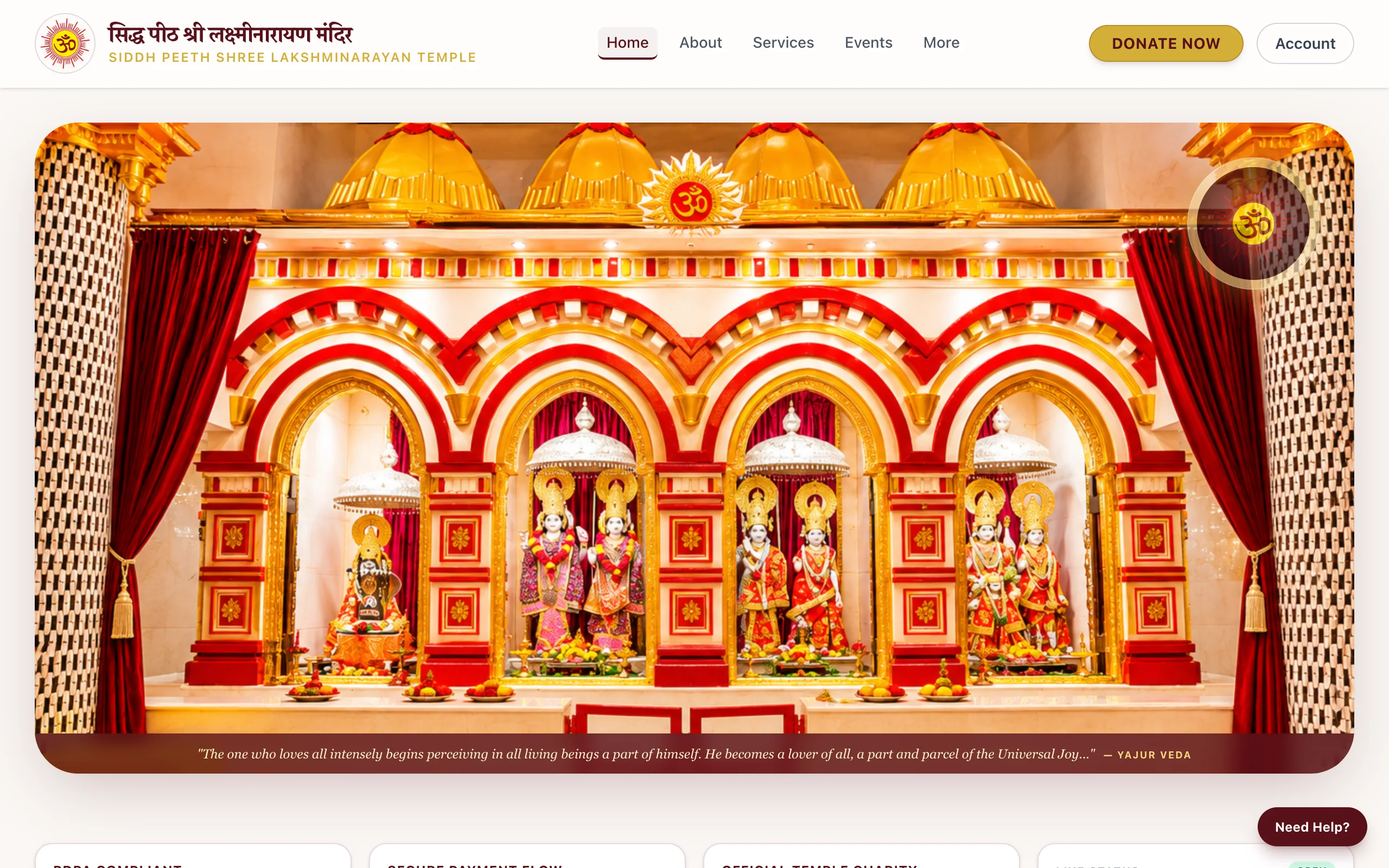
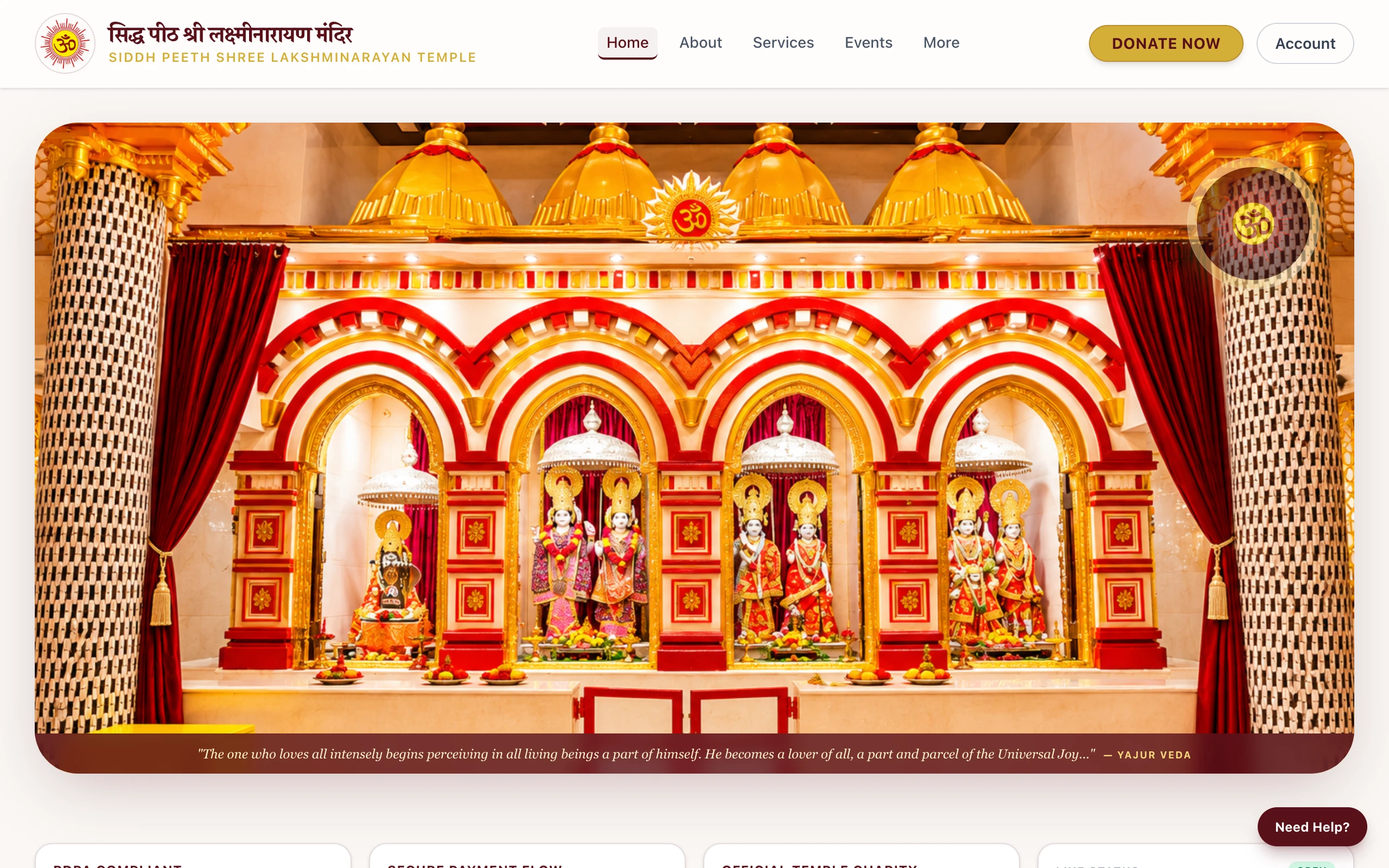
feat: implement desktop + mobile dual frame layout in hero showcase and upgrade full-bleed screenshots

diff --git a/index.html b/index.html
@@ -237,14 +237,38 @@
                 </span>
               </div>
 
-              <!-- Screenshot Preview Frame -->
-              <div class="product-preview-frame overflow-hidden rounded-xl border border-zinc-800 bg-zinc-950/80 relative">
-                <div class="flex items-center justify-between px-3 py-1 bg-zinc-900/90 border-b border-zinc-800/80 font-mono text-[10px] text-slate-400">
-                  <span class="text-slate-300 truncate">spslnt.sg</span>
-                  <span class="text-emerald-400 font-semibold">100% Festival Uptime</span>
+              <!-- Desktop + Mobile Dual Frame Container -->
+              <div class="grid grid-cols-12 gap-3 items-stretch my-2">
+                <!-- Desktop Frame -->
+                <div class="col-span-7 sm:col-span-8 flex flex-col rounded-xl border border-zinc-800 bg-zinc-950/90 overflow-hidden shadow-md">
+                  <!-- Chrome Top Bar -->
+                  <div class="flex items-center justify-between px-2.5 py-1.5 bg-zinc-900/90 border-b border-zinc-800/80 font-mono text-[10px] text-slate-400">
+                    <div class="flex items-center gap-1.5 min-w-0">
+                      <span class="w-2 h-2 rounded-full bg-rose-500 inline-block flex-shrink-0"></span>
+                      <span class="w-2 h-2 rounded-full bg-amber-500 inline-block flex-shrink-0"></span>
+                      <span class="w-2 h-2 rounded-full bg-emerald-500 inline-block flex-shrink-0"></span>
+                      <span class="ml-1 text-slate-300 truncate font-mono text-[10px]">spslnt.sg</span>
+                    </div>
+                    <span class="text-[9px] sm:text-[10px] px-1.5 py-0.5 rounded bg-zinc-800/80 text-zinc-300 border border-zinc-700/50 font-sans flex-shrink-0">Web Platform</span>
+                  </div>
+                  <!-- Desktop Screen -->
+                  <div class="relative flex-1 overflow-hidden aspect-[16/10] bg-zinc-950">
+                    <img src="assets/images/screenshots/spslnt.webp" alt="Shri Laxmi Narayan Temple Singapore live platform screenshot" loading="lazy" class="w-full h-full object-cover object-top">
+                  </div>
                 </div>
-                <div class="relative overflow-hidden aspect-[16/9] max-h-36 bg-zinc-950">
-                  <img src="assets/images/screenshots/spslnt.webp" alt="Shri Laxmi Narayan Temple Singapore live platform screenshot" loading="lazy" class="w-full h-full object-cover object-top">
+
+                <!-- Mobile Frame -->
+                <div class="col-span-5 sm:col-span-4 rounded-2xl border-2 border-zinc-700/80 bg-zinc-950 p-1 shadow-lg shadow-black/50 relative flex flex-col overflow-hidden justify-between">
+                  <!-- Dynamic Island Notch -->
+                  <div class="w-12 h-1.5 bg-zinc-800 rounded-full mx-auto my-1 flex-shrink-0"></div>
+                  <!-- Mobile Screen -->
+                  <div class="relative overflow-hidden rounded-xl aspect-[9/16] max-h-44 sm:max-h-48 bg-zinc-900 flex-1">
+                    <img src="assets/images/screenshots/spslnt-mobile.webp" alt="Shri Laxmi Narayan Temple Singapore mobile view screenshot" loading="lazy" class="w-full h-full object-cover object-top">
+                  </div>
+                  <!-- Mobile Label -->
+                  <div class="pt-1 pb-0.5 text-center flex-shrink-0">
+                    <span class="text-[9px] font-mono text-zinc-400 uppercase tracking-wider">Mobile View</span>
+                  </div>
                 </div>
               </div>
 
@@ -290,14 +314,38 @@
                 </span>
               </div>
 
-              <!-- Screenshot Preview Frame -->
-              <div class="product-preview-frame overflow-hidden rounded-xl border border-zinc-800 bg-zinc-950/80 relative">
-                <div class="flex items-center justify-between px-3 py-1 bg-zinc-900/90 border-b border-zinc-800/80 font-mono text-[10px] text-slate-400">
-                  <span class="text-slate-300 truncate">the1494.com</span>
-                  <span class="text-emerald-400 font-semibold">&lt; 800ms Global Load</span>
+              <!-- Desktop + Mobile Dual Frame Container -->
+              <div class="grid grid-cols-12 gap-3 items-stretch my-2">
+                <!-- Desktop Frame -->
+                <div class="col-span-7 sm:col-span-8 flex flex-col rounded-xl border border-zinc-800 bg-zinc-950/90 overflow-hidden shadow-md">
+                  <!-- Chrome Top Bar -->
+                  <div class="flex items-center justify-between px-2.5 py-1.5 bg-zinc-900/90 border-b border-zinc-800/80 font-mono text-[10px] text-slate-400">
+                    <div class="flex items-center gap-1.5 min-w-0">
+                      <span class="w-2 h-2 rounded-full bg-rose-500 inline-block flex-shrink-0"></span>
+                      <span class="w-2 h-2 rounded-full bg-amber-500 inline-block flex-shrink-0"></span>
+                      <span class="w-2 h-2 rounded-full bg-emerald-500 inline-block flex-shrink-0"></span>
+                      <span class="ml-1 text-slate-300 truncate font-mono text-[10px]">the1494.com</span>
+                    </div>
+                    <span class="text-[9px] sm:text-[10px] px-1.5 py-0.5 rounded bg-zinc-800/80 text-zinc-300 border border-zinc-700/50 font-sans flex-shrink-0">Web Platform</span>
+                  </div>
+                  <!-- Desktop Screenshot -->
+                  <div class="relative flex-1 overflow-hidden aspect-[16/10] bg-zinc-950">
+                    <img src="assets/images/screenshots/the1494.webp" alt="The 1494 luxury platform live screenshot" loading="lazy" class="w-full h-full object-cover object-top">
+                  </div>
                 </div>
-                <div class="relative overflow-hidden aspect-[16/9] max-h-36 bg-zinc-950">
-                  <img src="assets/images/screenshots/the1494.webp" alt="The 1494 luxury platform live screenshot" loading="lazy" class="w-full h-full object-cover object-top">
+
+                <!-- Mobile Frame -->
+                <div class="col-span-5 sm:col-span-4 rounded-2xl border-2 border-zinc-700/80 bg-zinc-950 p-1 shadow-lg shadow-black/50 relative flex flex-col overflow-hidden justify-between">
+                  <!-- Dynamic Island Notch -->
+                  <div class="w-12 h-1.5 bg-zinc-800 rounded-full mx-auto my-1 flex-shrink-0"></div>
+                  <!-- Mobile Screen -->
+                  <div class="relative overflow-hidden rounded-xl aspect-[9/16] max-h-44 sm:max-h-48 bg-zinc-900 flex-1">
+                    <img src="assets/images/screenshots/the1494-mobile.webp" alt="The 1494 luxury platform mobile view screenshot" loading="lazy" class="w-full h-full object-cover object-top">
+                  </div>
+                  <!-- Mobile Label -->
+                  <div class="pt-1 pb-0.5 text-center flex-shrink-0">
+                    <span class="text-[9px] font-mono text-zinc-400 uppercase tracking-wider">Mobile View</span>
+                  </div>
                 </div>
               </div>
 
@@ -343,14 +391,38 @@
                 </span>
               </div>
 
-              <!-- Screenshot Preview Frame -->
-              <div class="product-preview-frame overflow-hidden rounded-xl border border-zinc-800 bg-zinc-950/80 relative">
-                <div class="flex items-center justify-between px-3 py-1 bg-zinc-900/90 border-b border-zinc-800/80 font-mono text-[10px] text-slate-400">
-                  <span class="text-slate-300 truncate">spendwise.experthub.store</span>
-                  <span class="text-emerald-400 font-semibold">100% Private Engine</span>
+              <!-- Desktop + Mobile Dual Frame Container -->
+              <div class="grid grid-cols-12 gap-3 items-stretch my-2">
+                <!-- Desktop Frame -->
+                <div class="col-span-7 sm:col-span-8 flex flex-col rounded-xl border border-zinc-800 bg-zinc-950/90 overflow-hidden shadow-md">
+                  <!-- Chrome Top Bar -->
+                  <div class="flex items-center justify-between px-2.5 py-1.5 bg-zinc-900/90 border-b border-zinc-800/80 font-mono text-[10px] text-slate-400">
+                    <div class="flex items-center gap-1.5 min-w-0">
+                      <span class="w-2 h-2 rounded-full bg-rose-500 inline-block flex-shrink-0"></span>
+                      <span class="w-2 h-2 rounded-full bg-amber-500 inline-block flex-shrink-0"></span>
+                      <span class="w-2 h-2 rounded-full bg-emerald-500 inline-block flex-shrink-0"></span>
+                      <span class="ml-1 text-slate-300 truncate font-mono text-[10px]">spendwise.experthub.store</span>
+                    </div>
+                    <span class="text-[9px] sm:text-[10px] px-1.5 py-0.5 rounded bg-zinc-800/80 text-zinc-300 border border-zinc-700/50 font-sans flex-shrink-0">Web Platform</span>
+                  </div>
+                  <!-- Desktop Screenshot -->
+                  <div class="relative flex-1 overflow-hidden aspect-[16/10] bg-zinc-950">
+                    <img src="assets/images/screenshots/spendwise.webp" alt="SpendWise personal finance application screenshot" loading="lazy" class="w-full h-full object-cover object-top">
+                  </div>
                 </div>
-                <div class="relative overflow-hidden aspect-[16/9] max-h-36 bg-zinc-950">
-                  <img src="assets/images/screenshots/spendwise.webp" alt="SpendWise personal finance application screenshot" loading="lazy" class="w-full h-full object-cover object-top">
+
+                <!-- Mobile Frame -->
+                <div class="col-span-5 sm:col-span-4 rounded-2xl border-2 border-zinc-700/80 bg-zinc-950 p-1 shadow-lg shadow-black/50 relative flex flex-col overflow-hidden justify-between">
+                  <!-- Dynamic Island Notch -->
+                  <div class="w-12 h-1.5 bg-zinc-800 rounded-full mx-auto my-1 flex-shrink-0"></div>
+                  <!-- Phone Screen -->
+                  <div class="relative overflow-hidden rounded-xl aspect-[9/16] max-h-44 sm:max-h-48 bg-zinc-900 flex-1">
+                    <img src="assets/images/screenshots/spendwise-mobile.webp" alt="SpendWise personal finance mobile view screenshot" loading="lazy" class="w-full h-full object-cover object-top">
+                  </div>
+                  <!-- Phone Bottom Label -->
+                  <div class="pt-1 pb-0.5 text-center flex-shrink-0">
+                    <span class="text-[9px] font-mono text-zinc-400 uppercase tracking-wider">Mobile View</span>
+                  </div>
                 </div>
               </div>
 

diff --git a/tests/test_structure.py b/tests/test_structure.py
@@ -1221,10 +1221,13 @@ class TestSiteStructure(unittest.TestCase):
         
         expected_screenshots = [
             "spslnt.webp",
+            "spslnt-mobile.webp",
             "the1494.webp",
+            "the1494-mobile.webp",
             "hyperfetch.webp",
             "indiacrafted.webp",
             "spendwise.webp",
+            "spendwise-mobile.webp",
             "sciencehub.webp",
         ]
         for filename in expected_screenshots:
